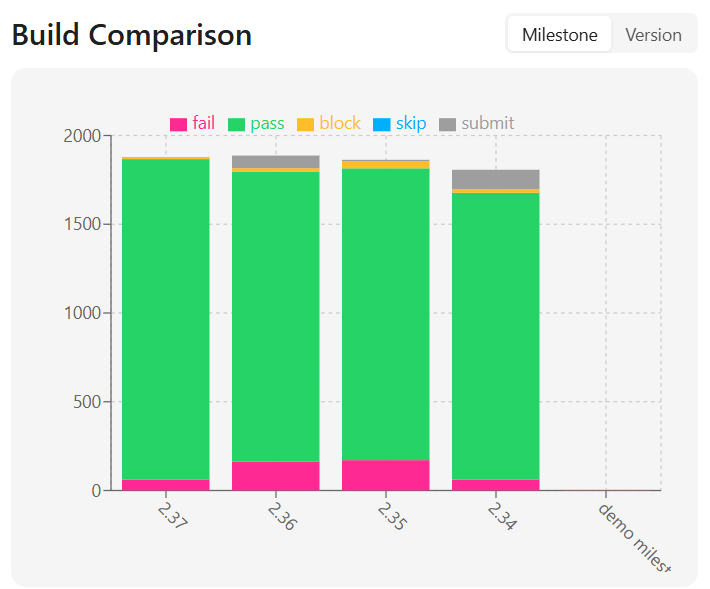
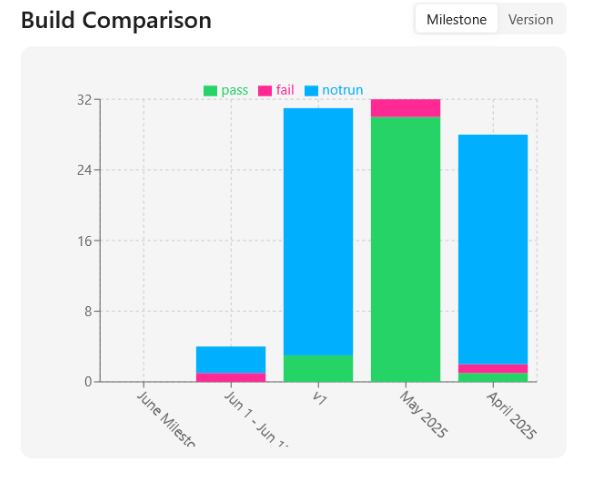
dashboard docs

diff --git a/docs/zeuz-server/dashboard-page.md b/docs/zeuz-server/dashboard-page.md
@@ -8,7 +8,7 @@ import Highlight from '@site/src/components/Highlight';
 
 The Dashboard page is the main overview screen of a software platform that displays key information, metrics, and summaries in a single place. It gives users a quick understanding of the current status of their projects, tests, or system health.
 
-![](/img/dashboard-page/dashboard-page.jpg)
+![](/img/dashboard-page/Dashboard.png)
 
 ---
 
@@ -30,6 +30,34 @@ The Dashboard page is the main overview screen of a software platform that displ
 
 ![](/img/dashboard-page/dashboard-node.png)
 
+
+---
+
+## License and Node Information
+The node section has been added to display the license information. It also shows the list of currently connected nodes. This section will become scrollable if there are more than four connected nodes.
+
+Here is a summary of the details:
+
+### General Information
+-  **Nodes: 1000**  
+   Indicates that the environment is licensed to support upto ***1000 execution nodes**.
+- **Users: 1000**  
+  Allows upto **1000 users** to access the system.
+- **Type: Production**  
+  Specifies that this instance is intended for **production use**, not for testing or development purposes.
+- **Validity: January 1, 2026**  
+  The license remains **valid until January 1, 2026**.
+
+### Connected Nodes
+- The system currently shows **two connected nodes**, meaning two machines are actively communicating with the ZeuZ platform.
+
+The connected nodes are:
+
+1. **nayeem_windows**: (remote windows node for test execution).
+2. **shakib.a_remote_linux**: (remote linux node for test execution).
+
+![](/img/dashboard-page/license-node.png)
+
 ---
 
 ### Build Health
@@ -45,17 +73,17 @@ Build Health displays two key metrics, such as:
 **1. Pass**: Indicates the percentage of tests or checks that passed successfully.  
 **2. Fail**: Indicates the percentage of tests or checks that failed.
 
-However, when hovering over the **Pass** or **Fail** indicators, the system displays the corresponding percentage and count of test cases, providing a quick overview of build health.
+However, in the **Build Health** section, without requiring any hover action, it will now show percentage values beside the metrics, for example, test results: **94.3% Passed (33)** and **5.7% Failed (2)**. These insights will be visible directly, without the need to hover. Additionally, the selected **Milestone** or **Version** will be displayed below the build health summary. 
 
 :::note
-If the "Build Health" section shows **Pass** and **Fail** metrics with **NaN%**, then it indicates that the system lacks the necessary data to compute these percentages. This could be due to missing test results, a malfunctioning testing framework, or incomplete build processes. It also indicates that no test cases have been executed or recorded. To resolve this, ensure that tests are running and that the results are being captured and processed correctly.
+In the **Build Health** section, if no data is available, it will display as zero.
 :::
 
 ### Example
 
-|  Build Health with Pass and Fail metrics  |
-|-------------------------------------------|
-| ![](/img/dashboard-page/build-count.png)  |
+|  Build Health with Pass and Fail metrics  |  Build Health with No Data                |
+|-------------------------------------------|-------------------------------------------|
+| ![](/img/dashboard-page/build-count.png)  |  ![](/img/dashboard-page/build-zero.png)  |
 
 ---
 
@@ -73,7 +101,14 @@ Automatability refers to how easily and effectively a test can be automated usin
 |  Performance       |  <Highlight color="rgb(127, 40, 255)">Purple</Highlight>    |
 |  Undefined         |  <Highlight color="rgb(158, 158, 158)">Gray</Highlight>      |
 
-Under our server, test cases are categorized based on their level of automatability. This shows how many test cases are automated, easy to automate, hard to automate, not automatable, performance-related, or undefined. When hovering over each segment of a chart, it shows how many test cases belong to that category, along with their percentage. For example, there are **3,294 automated test cases (95.06%)** and **133 test cases that are easy to automate (3.84%)**. Similar data is displayed for the remaining categories as well.
+Under our server, test cases are categorized based on their level of automatability. In the **Automatability** section, users can now view the total number of test cases and see what percentage of them are "Automated", "Easily Automatable", or "Hard to Automate", etc., without the need to hover.
+For example, there are:
+- **4886 automated test cases (84.5%)**, 
+- **866 test cases that are easily automatable (15.0%)**, 
+- **14 test cases that are hard to automate (0.2%)**, 
+- **6 test cases that are not automatable (0.1%)**, 
+- **7 test cases that are under performance (0.1%)**,  
+- **2 undefined test cases (0.0%)**.
 
 ![](/img/dashboard-page/easily-automatable.png)
 
@@ -82,36 +117,38 @@ Under our server, test cases are categorized based on their level of automatabil
 ### Build Comparison
 Build Comparison refers to the process of comparing the test results of two or more software builds to identify changes in quality, functionality, or performance overtime.
 
-This chart displays a comparison of the last five builds. It shows how many test cases were submitted and passed in previous versions or milestones, and how many have passed in recent builds, etc. The purpose is to provide a clear comparison.
+This chart displays a comparison of the last five builds. It shows how many test cases were not run or passed in previous versions or milestones, and how many have passed in recent builds, etc. The purpose is to provide a clear comparison.
 
-### Example
+In the **Build Comparison** section, the blocks have now been merged as follows:
+- The **Fail** block now combines both "Fail" and "Block" status.
+- The **Not Run** block now combines both "Skip" and "Submit" status.
 
-Users can observe that in an earlier build, **1616 test cases passed**
-while **61 test cases failed**. And in the most recent build, **1806 test cases passed** and
-**61 test cases failed**.
-
-|  Previous Build                          |  Recent Build                         |
-|------------------------------------------|---------------------------------------|
-| ![](/img/dashboard-page/previous-build.png)  | ![](/img/dashboard-page/recent-build.png)  |
-
-This helps determine whether the quality is improving or degrading overtime.  
+However, this helps determine whether the quality is improving or degrading overtime.  
 At the top, there are toggle options for **Milestone** and **Version**. When **Milestone** is selected, the build comparison is shown based on milestones. When **Version** is selected, the build comparison is shown based on version.
 
 ![](/img/dashboard-page/build-comparison.png)
 
+Here, the **June** milestone is the current build, while the others are previous builds.
+
 ---
 
 ### PBC (Priority Based Comparison)
-Priority Based Comparison refers to the process of comparing test results based on the priority levels assigned to test cases.
+Priority Based Comparison refers to the process of comparing test results based on the priority levels assigned to test cases. It allows users to analyze test results based on different priority levels, such as **P1**, **P2**, **P3** and **P4**.
 
-Priority Based Comparison (PBC) allows users to analyze test results based on different priority levels, such as **P1**, **P2**, **P3** and **P4**. When you hover over the chart, you can see the name of the current build or milestone being analyzed.
+In case of **PBC (Priority Based Comparison)**, when the **Current**, **Previous**, **Milestone** or **Version** is selected, the selected **Current / Previous Milestone** or **Current / Previous Version** will be displayed below the PBC section. Additionally, as before, the **Fail** status includes both failed and blocked test cases, and the **Not Run** status includes both "Skipped" and "Submitted" test cases.
 
 ### Example
-In the current build, if there are **286 test cases that passed** and **7 test cases that failed**, this comparison becomes especially important because **P1** test cases are considered critical. By organizing results by priority, users can quickly identify issues in high-priority areas.
+The following image displays a tooltip or data breakdown for a test priority category labeled **P1**. It shows the execution status of test cases under this priority:
+- **Pass: 30**  
+  A total of thirty test cases have passed.
+- **Fail: 2**  
+  Two test cases have failed.
+- **Not Run: 3**  
+  Three test cases have not been executed.
 
 ![](/img/dashboard-page/pbc-data.png)
 
-The chart also shows how many test cases are **passing**, **failing**, **blocked**, **skipped**, or **submitted** within each priority level. Additionally, hovering over the **Current** label reveals the name of the most recent build, and this comparison can be used across milestones or versions to track how test cases are performing based on their assigned priorities.
+The chart also displays the number of test cases that are passing, failing, and not running within each priority level. Additionally, hovering over the **Current** label reveals the name of the most recent build, and this comparison can be used across milestones or versions to track how test cases are performing based on their assigned priorities.
 
 ![](/img/dashboard-page/pbc-chart.png)
 

diff --git a/docs/zeuz-node/Setup and Usage/install-zeuz-node-on-macos.md b/docs/zeuz-node/Setup and Usage/install-zeuz-node-on-macos.md
@@ -19,9 +19,7 @@ This method provides step-by-step instructions for installing the **ZeuZ Node** 
 1. Log in to the **ZeuZ Dashboard**.
 2. Locate the **ZeuZ Node** section.
 
-![](/img/zeuz-node/install-macos/H.png)
-
-3. Click on **More platforms and architectures**.
+![](/img/zeuz-node/install-macos/Dashboard.png)
 
 → This will redirect the user to the official GitHub **ZeuZ_Python_Node** [Releases](https://github.com/AutomationSolutionz/Zeuz_Python_Node/releases) page.
 

diff --git a/docs/zeuz-node/Setup and Usage/zeuz-node-usage.md b/docs/zeuz-node/Setup and Usage/zeuz-node-usage.md
@@ -16,3 +16,8 @@ ZeuZ Node can be launched via the CLI from any terminal/cmd prompt.
 - Login with API key and server: `uv run node_cli.py -s https://zeuz-server.com
   -k API-KEY-ABC-XYZ-QWERTY`
 - Local Run/Re-run previous deployment offline: `uv run node_cli.py -r`
+
+### GitHub Link Repository
+https://github.com/AutomationSolutionz/Zeuz_Python_Node/releases
+
+---
